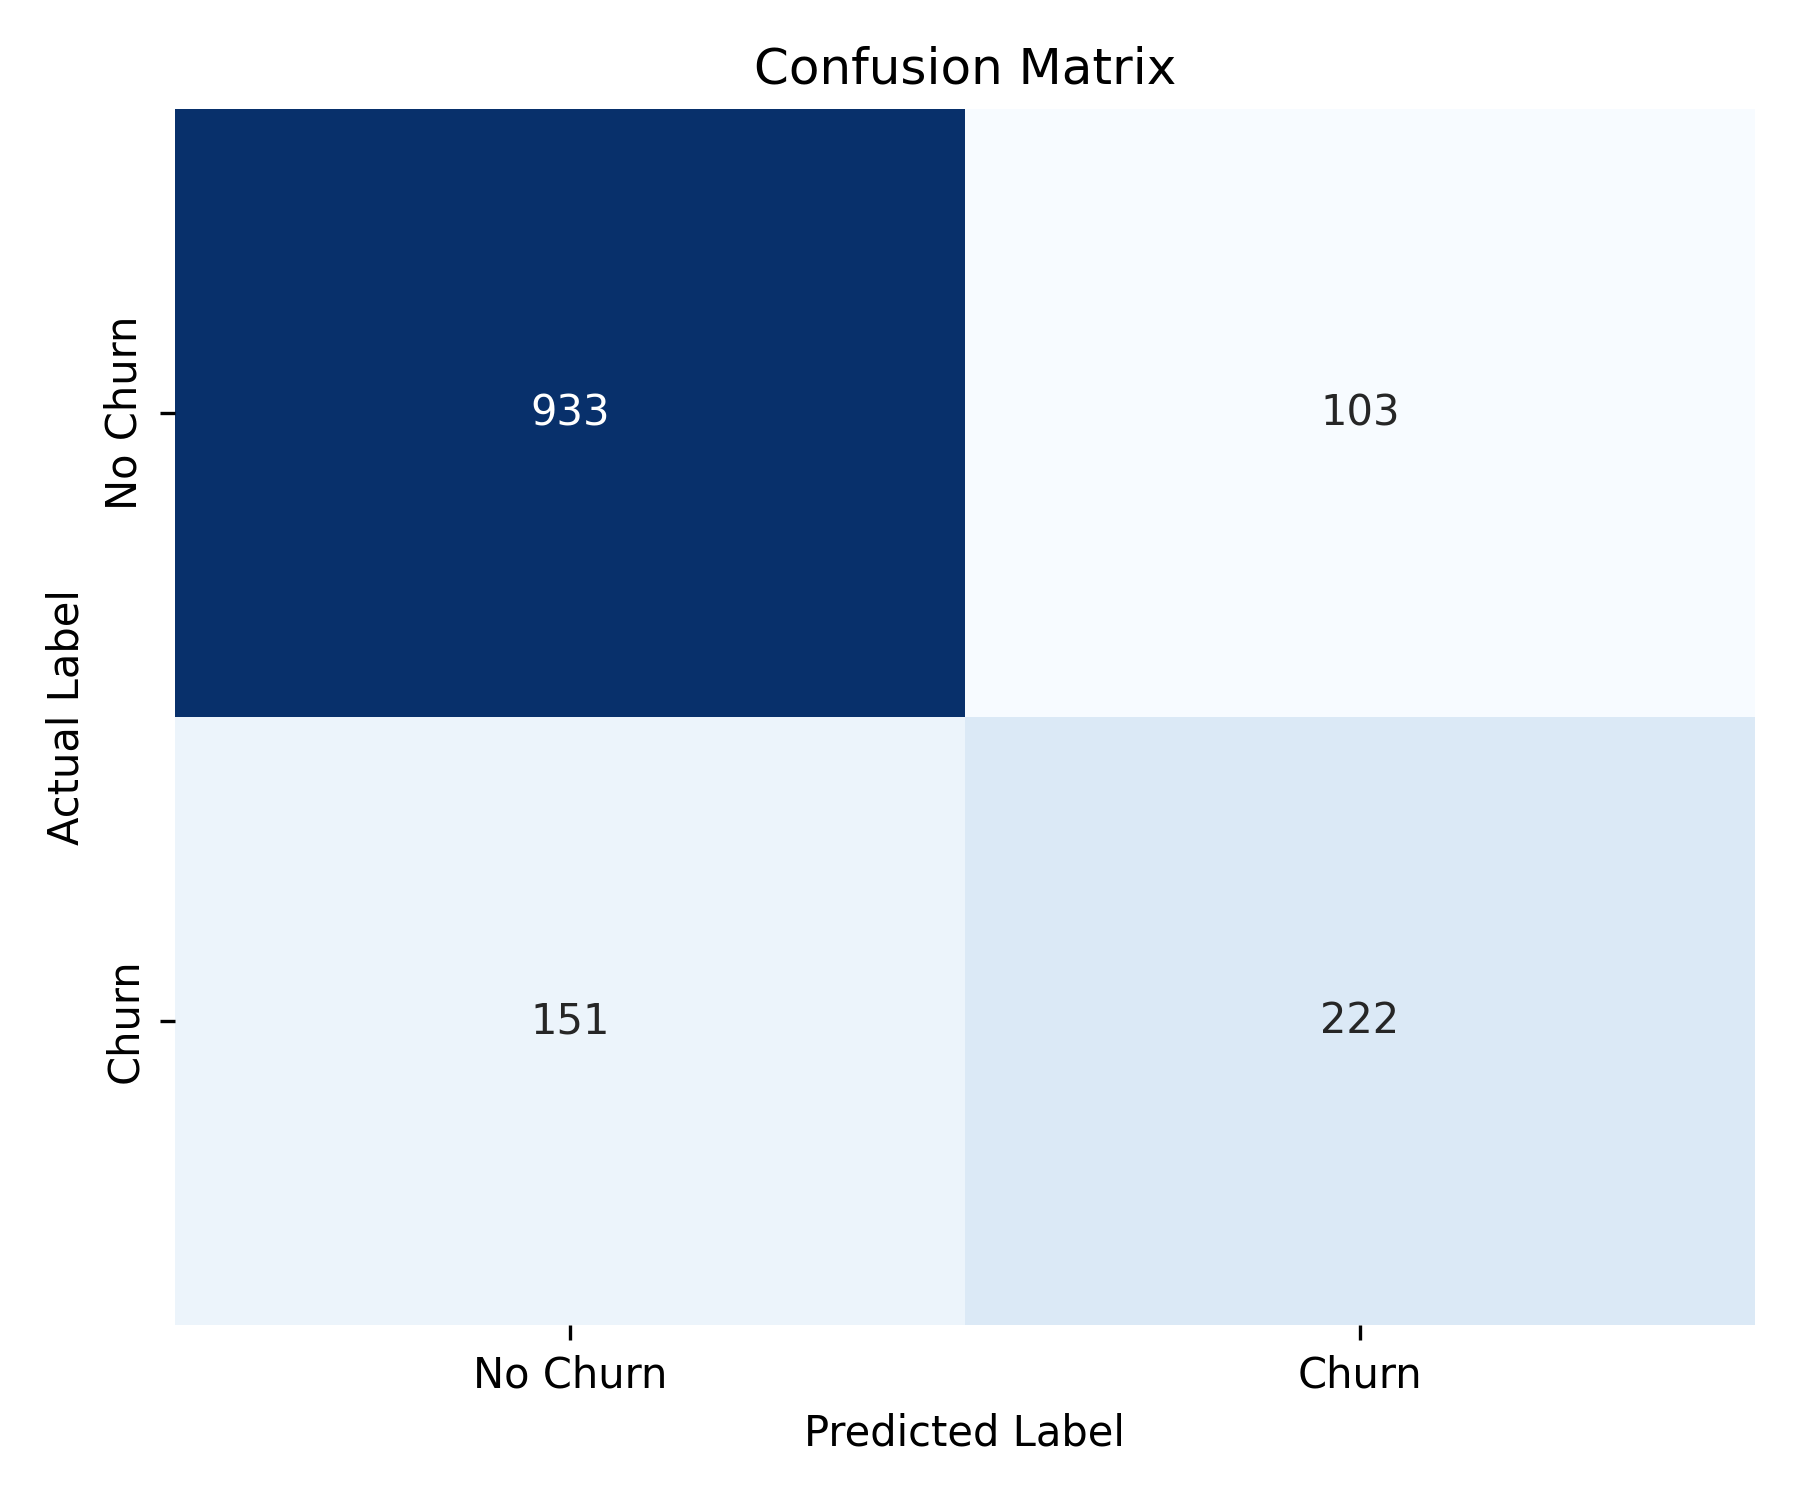
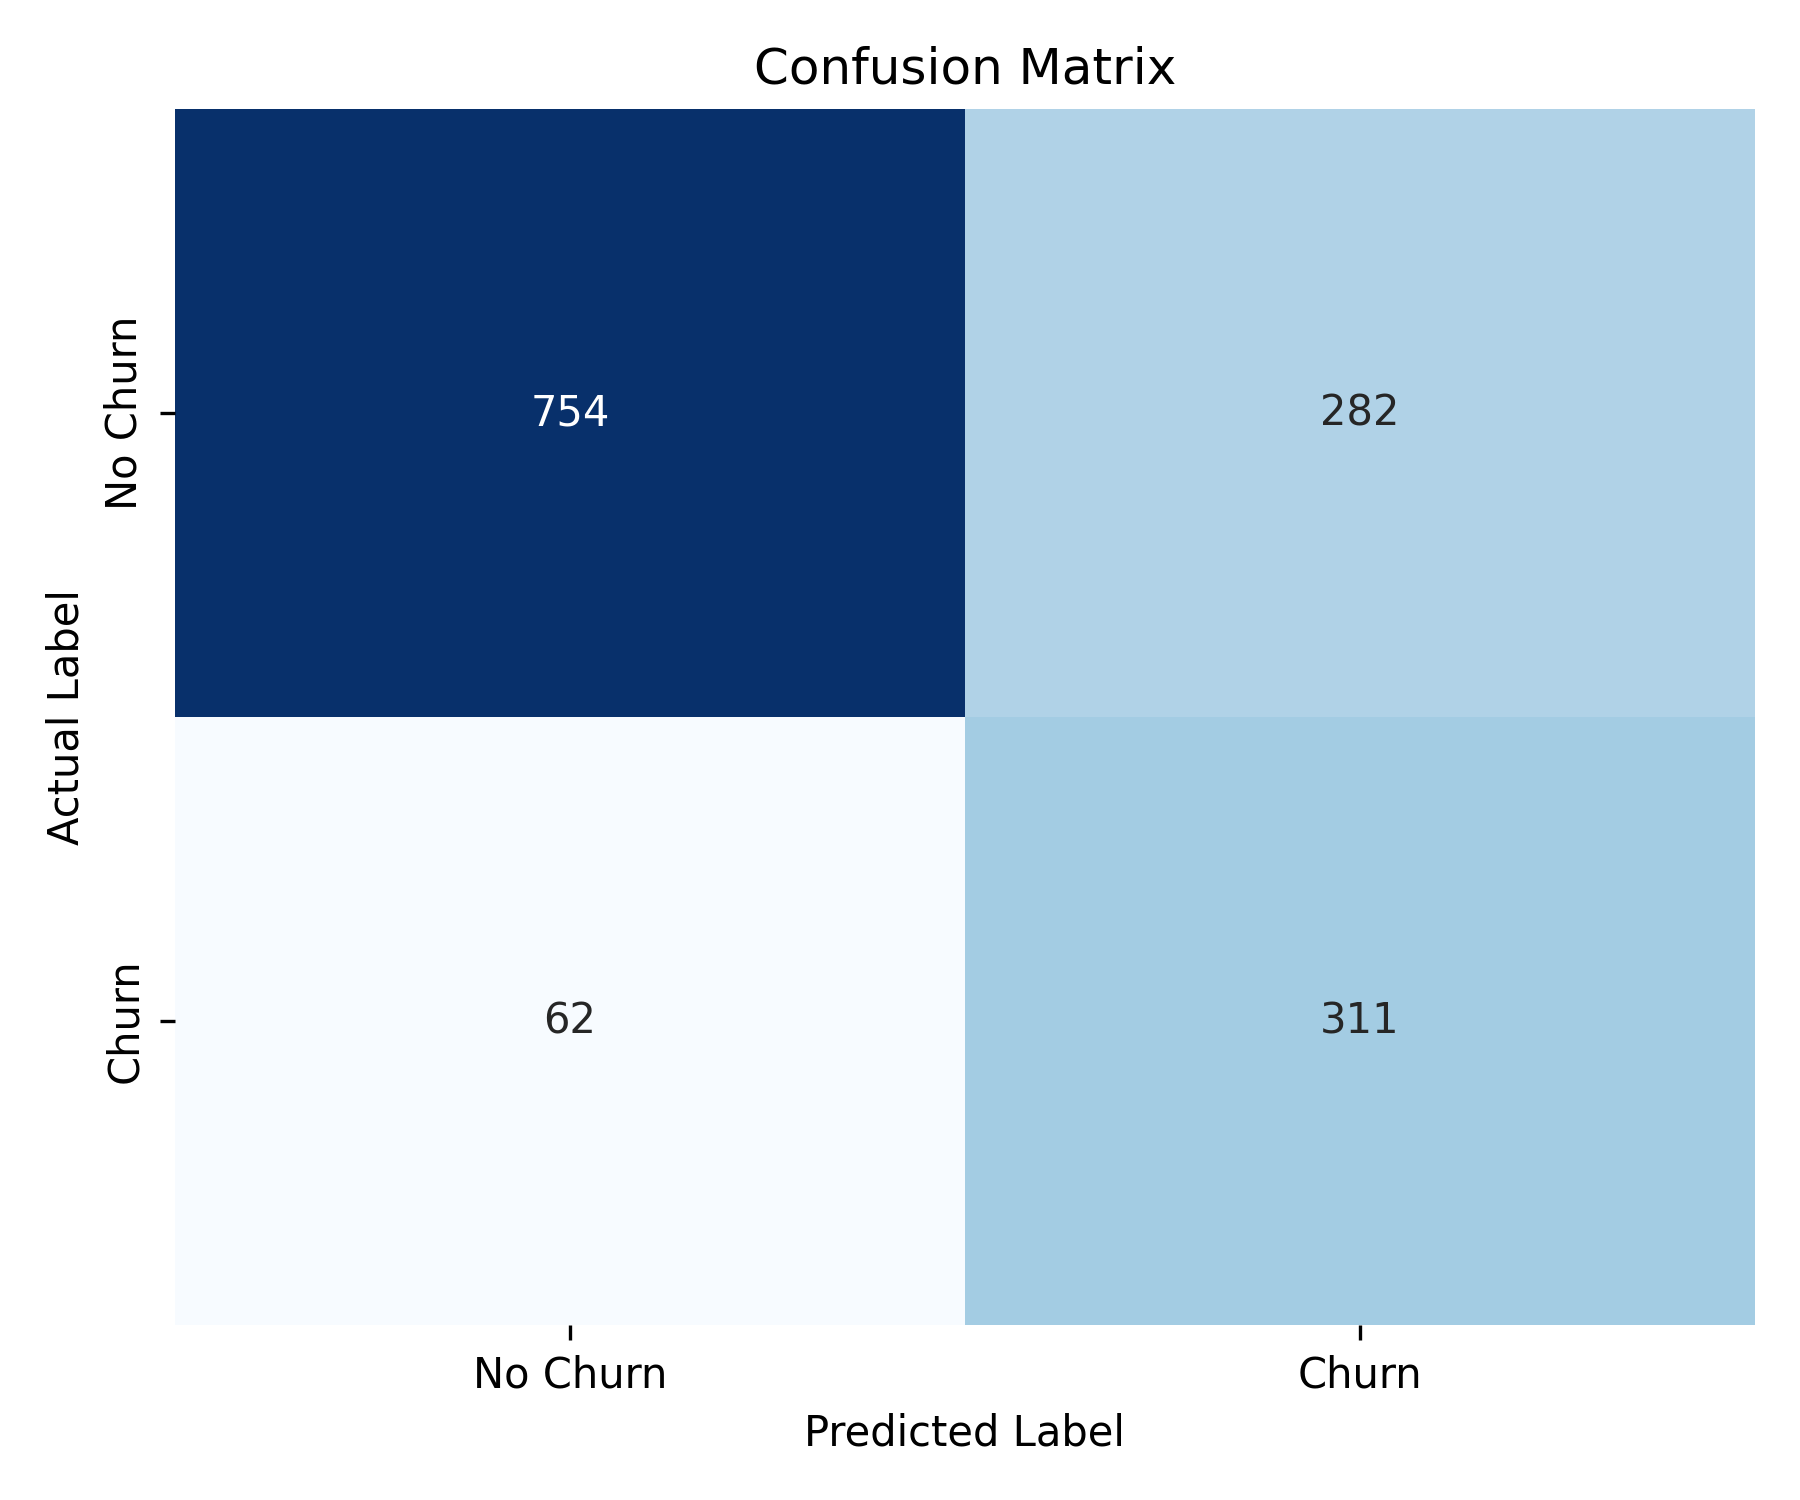
handeled class imbalacne with 27 churn

diff --git a/prep_data.py b/prep_data.py
@@ -3,13 +3,14 @@ from sklearn.model_selection import train_test_split
 from sklearn.linear_model import LogisticRegression
 from sklearn.preprocessing import StandardScaler
 from sklearn.metrics import accuracy_score, precision_score, recall_score, f1_score, confusion_matrix, roc_curve, auc
+from imblearn.over_sampling import SMOTE
 import matplotlib.pyplot as plt
 import seaborn as sns
 import pickle
 import os
 import json
 
-# Load dataset
+# Load datasetgit 
 df = pd.read_csv("WA_Fn-UseC_-Telco-Customer-Churn.csv")
 
 # Clean
@@ -32,9 +33,24 @@ scaler = StandardScaler()
 X_train_scaled = scaler.fit_transform(X_train)
 X_test_scaled = scaler.transform(X_test)
 
-# Train Model
-model = LogisticRegression(max_iter=1000)
-model.fit(X_train_scaled, y_train)
+# --- Class Distribution Before SMOTE ---
+print("\nClass distribution BEFORE SMOTE:")
+print(y_train.value_counts().rename({0: 'No Churn (0)', 1: 'Churn (1)'}).to_string())
+
+# Apply SMOTE to training set ONLY (after scaling to avoid data leakage)
+smote = SMOTE(random_state=42)
+X_train_resampled, y_train_resampled = smote.fit_resample(X_train_scaled, y_train)
+
+# --- Class Distribution After SMOTE ---
+import collections
+after_counts = collections.Counter(y_train_resampled)
+print("\nClass distribution AFTER SMOTE:")
+print(f"  No Churn (0): {after_counts[0]}")
+print(f"  Churn    (1): {after_counts[1]}")
+
+# Train Model on balanced data
+model = LogisticRegression(max_iter=1000, solver='saga')
+model.fit(X_train_resampled, y_train_resampled)
 
 # --- Model Evaluation ---
 y_pred = model.predict(X_test_scaled)
